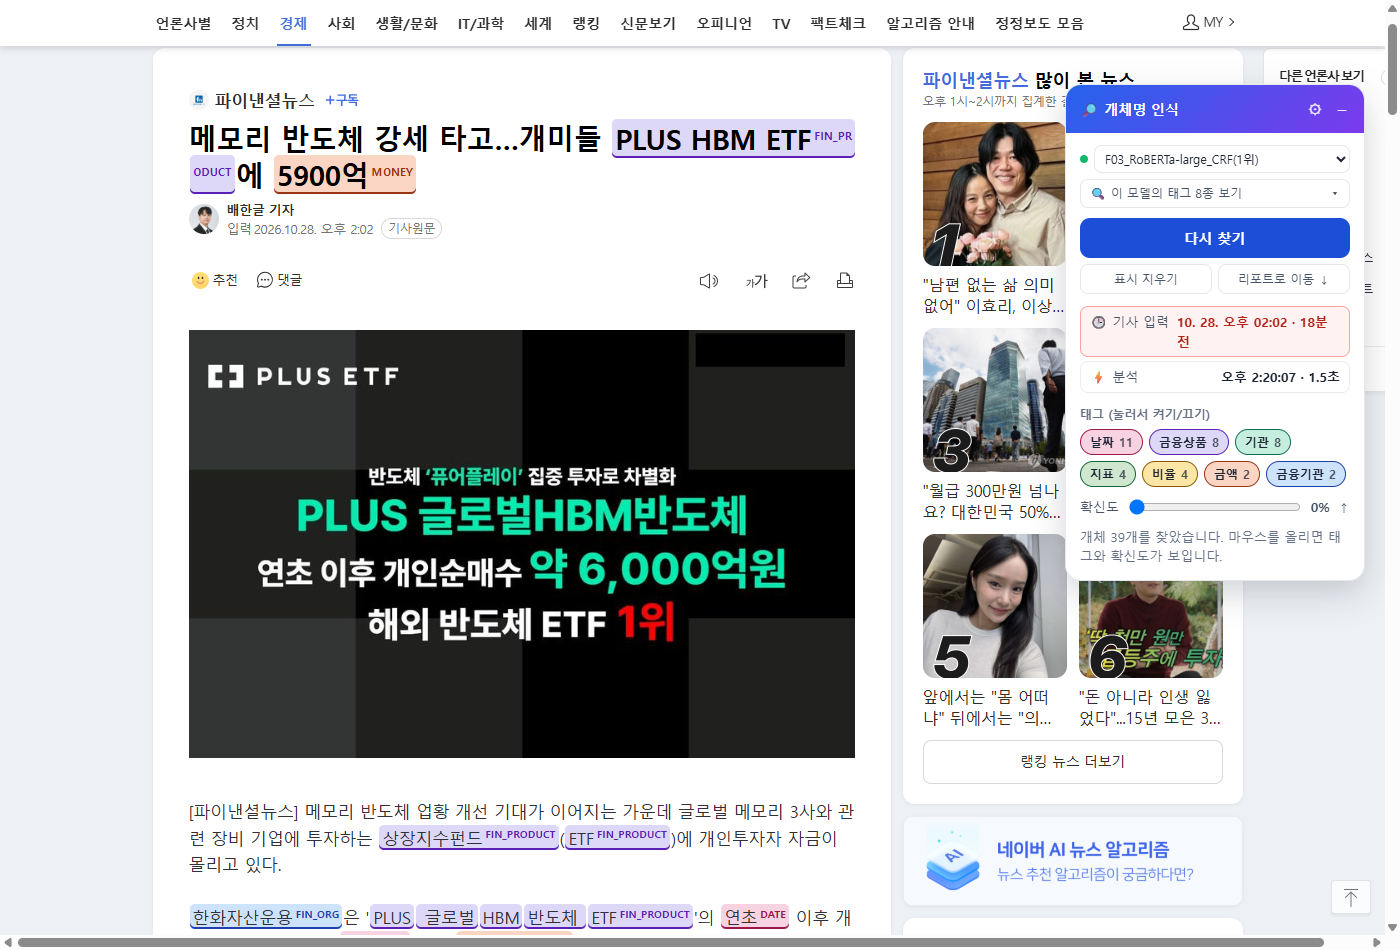
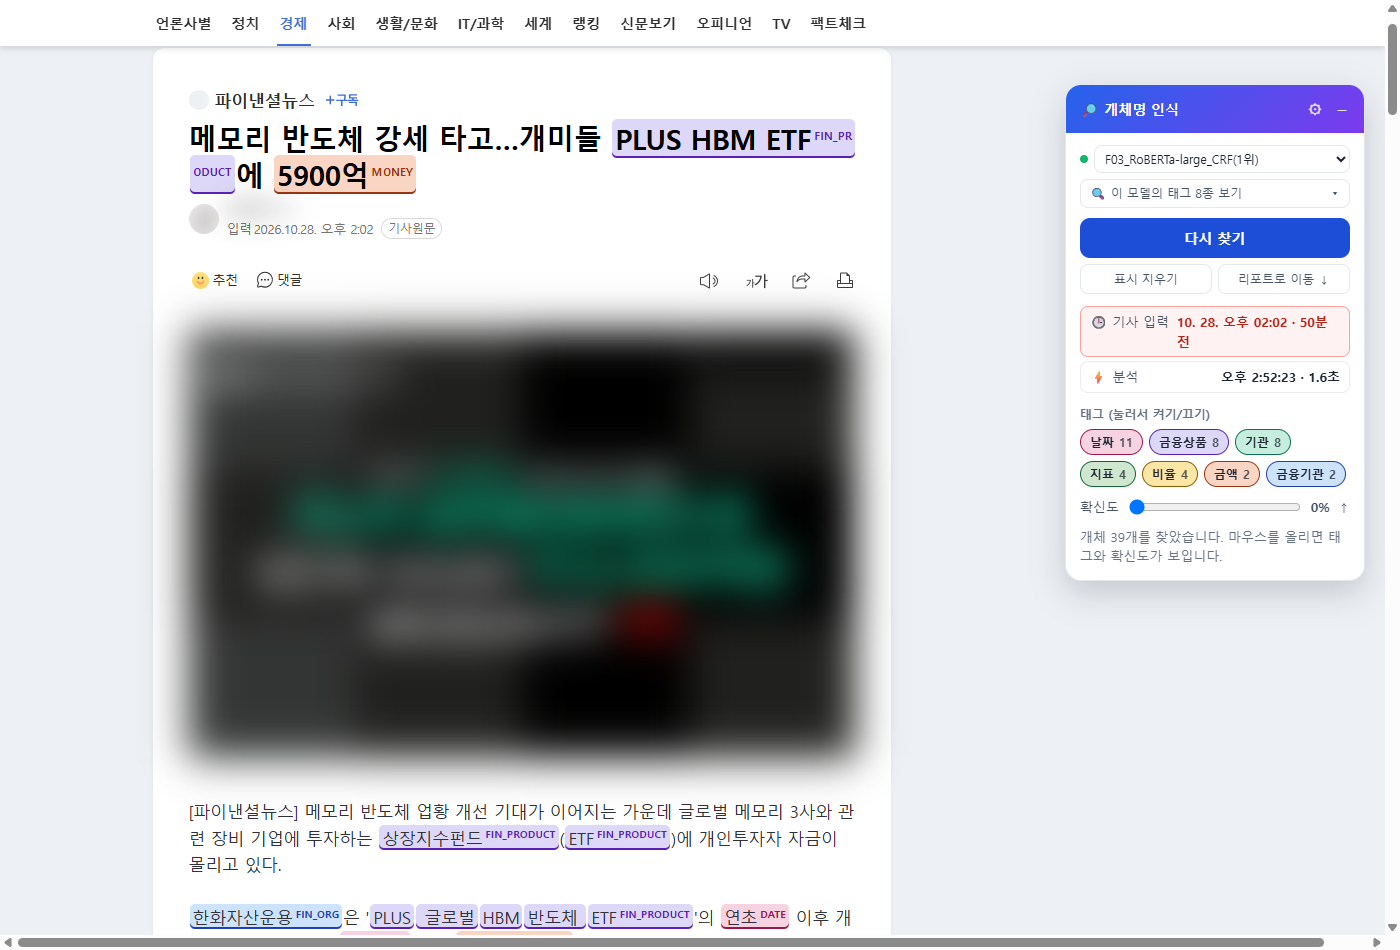
데모 캡처 저작권·초상권 처리, 웹 데모에 문장 직접 입력 추가
- README 대표 그림을 직접 쓴 예시 문장 화면(demo_sample.png)으로 교체
- 크롬 확장 캡처: 기사 옆 영역(사진) 가림, 기자 정보·기사 이미지 흐리게, 출처 표기
- 기사 제목 목록이 찍힌 웹 페이지 캡처(demo_web.png) 삭제
- 웹 페이지: 입력란에 주소가 아닌 문장을 넣으면 /api/ner로 바로 분석

diff --git a/demo/web/index.html b/demo/web/index.html
@@ -107,7 +107,7 @@ footer{margin-top:24px;font-size:12px;color:var(--muted)}
     <section class="card">
       <h2>① 기사 고르기</h2>
       <div class="url">
-        <input id="url" placeholder="네이버 뉴스 기사 주소 붙여넣기" autocomplete="off">
+        <input id="url" placeholder="네이버 뉴스 기사 주소 또는 분석할 문장" autocomplete="off">
         <button id="go">분석</button>
       </div>
       <div style="display:flex;align-items:center;justify-content:space-between;margin:4px 0 8px">
@@ -183,12 +183,14 @@ async function loadList(){
 
 async function analyze(url){
   if(!url) return;
+  const isUrl = /^https?:\/\//.test(url);   // 주소가 아니면 입력한 문장을 그대로 분석(줄마다 한 문단)
   document.querySelectorAll(".item").forEach(b => b.classList.toggle("sel", b.dataset.url === url));
   $("#empty").hidden = false; $("#article").hidden = true; $("#reportCard").hidden = true;
-  $("#empty").innerHTML = `<div class="loading"><div class="spin"></div>기사를 가져와 개체를 찾는 중… (몇 초 걸려요)</div>`;
+  $("#empty").innerHTML = `<div class="loading"><div class="spin"></div>${isUrl ? "기사를 가져와 " : ""}개체를 찾는 중… (몇 초 걸려요)</div>`;
   setStep(1);
   try{
-    RESULT = await api("/api/article", {url});
+    RESULT = isUrl ? await api("/api/article", {url})
+      : await api("/api/ner", {texts: [{id: "title", text: "직접 입력한 문장"}].concat(url.split(/\n+/).map(s => s.trim()).filter(Boolean).map((s, i) => ({id: "p" + i, text: s})))});
     OFF = new Set(); render();
   }catch(e){ $("#empty").innerHTML = `<div class="err">분석 실패: ${esc(e.message)}</div>`; }
 }

diff --git a/README.md b/README.md
@@ -4,9 +4,9 @@
 > 금융 라벨 30만 문장을 직접 만들고 후보 모델 14개를 같은 조건으로 비교해 **test F1 0.929(단일 모델) · 0.930(앙상블)** 을 얻었습니다.
 > NLP 6기 실전 프로젝트 1 · 2팀(김병석 · 김현호 · 박규태 · 진태현 · 최세진) · 2026년 10월
 
-![크롬 확장 데모: 네이버 기사 위에 금융 개체를 색으로 표시](docs/img/demo_extension.png)
+![웹 데모: 직접 입력한 문장의 금융 개체를 태그 색으로 표시](docs/img/demo_sample.png)
 
-*크롬 확장 데모. 네이버 경제 기사를 열고 버튼을 누르면 내 PC에서 돌아가는 모델이 개체를 찾아 기사 위에 칠합니다(노트북 CPU, 문장 12개 기사 1.5초).*
+*로컬 웹 데모에 예시 문장 3개를 넣은 결과(1위 모델, 노트북 CPU 0.8초). 문장은 시연용으로 직접 쓴 것입니다.*
 
 ## 한눈에 보기
 
@@ -130,8 +130,10 @@ flowchart LR
 
 | 화면 | 설명 |
 |---|---|
-| ![웹 페이지](docs/img/demo_web.png) | **웹 페이지** (`http://localhost:8000/`): 방금 올라온 네이버 경제 기사를 고르거나 주소를 넣으면 제목·본문에 태그 색을 칠하고 태그별 리포트를 보여 줍니다. |
+| ![크롬 확장](docs/img/demo_extension.png) | **크롬 확장**: 네이버 경제 기사를 열고 버튼을 누르면 제목·본문에 태그 색을 칠합니다(노트북 CPU, 문장 12개 기사 1.6초). *출처: 파이낸셜뉴스 2026.10.28 기사, 데모 시연용. 기자 정보·기사 이미지는 흐리게, 기사 옆 영역은 가림.* |
 | ![개체 리포트](docs/img/demo_report.png) | **개체 리포트**: 태그별로 같은 개체를 모아 횟수를 셉니다. 확신도 슬라이더로 낮은 확신 개체를 숨길 수 있습니다. |
+
+- **웹 페이지** (`http://localhost:8000/`): 방금 올라온 네이버 경제 기사를 고르거나, 기사 주소 또는 **분석할 문장**을 입력하면 같은 방식으로 표시하고 태그별 리포트를 보여 줍니다.
 
 - 모델 고르기: 패널의 선택 상자에서 `demo/models/`에 있는 모델과 **앙상블(03+12+03s)** 중 하나를 고릅니다.
 - **Claude와 비교(선택)**: 환경 변수 `ANTHROPIC_API_KEY`가 있을 때만 켜집니다. 같은 기사를 Claude(기준서 v1.2)가 라벨링한 결과와 일치도(F1)·다르게 단 개체 목록을 보여 주며, 한 번 받은 결과는 `demo/server/claude_cache/`에 저장해 다시 요금이 들지 않습니다.
